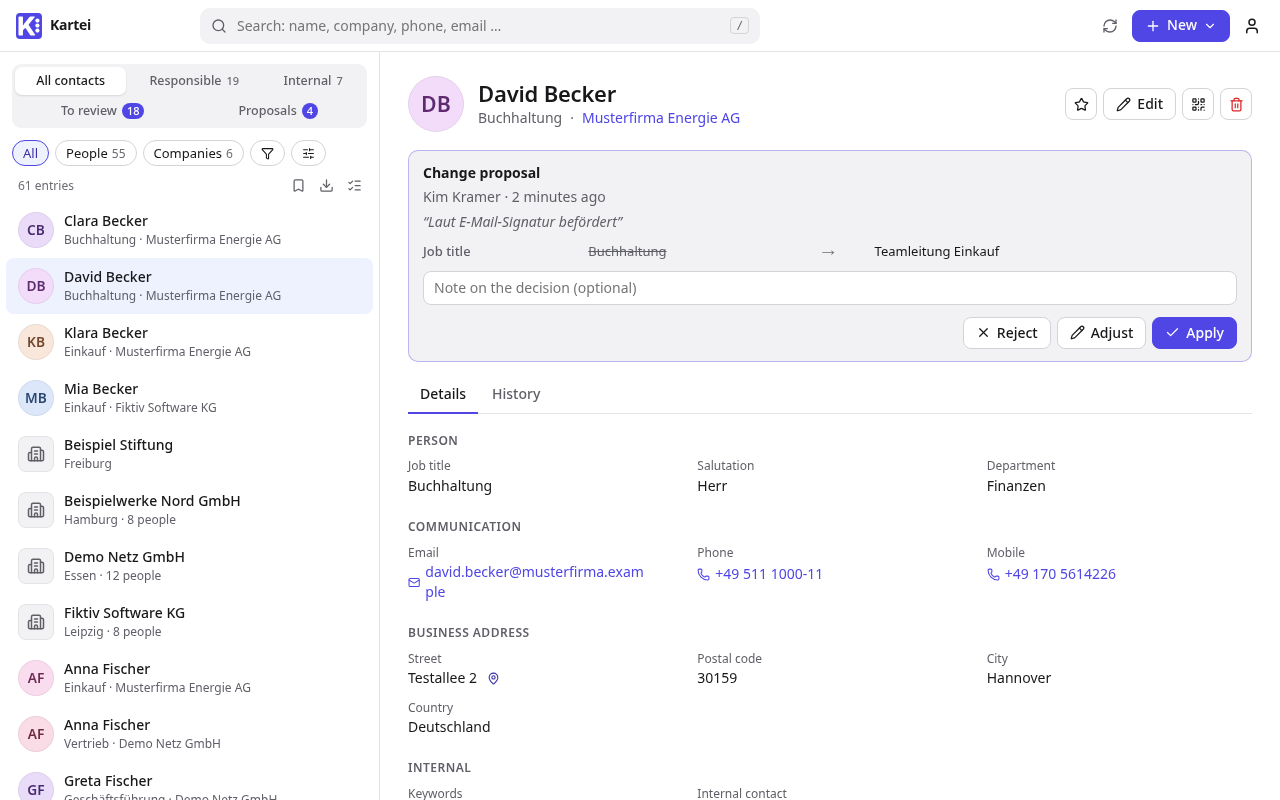
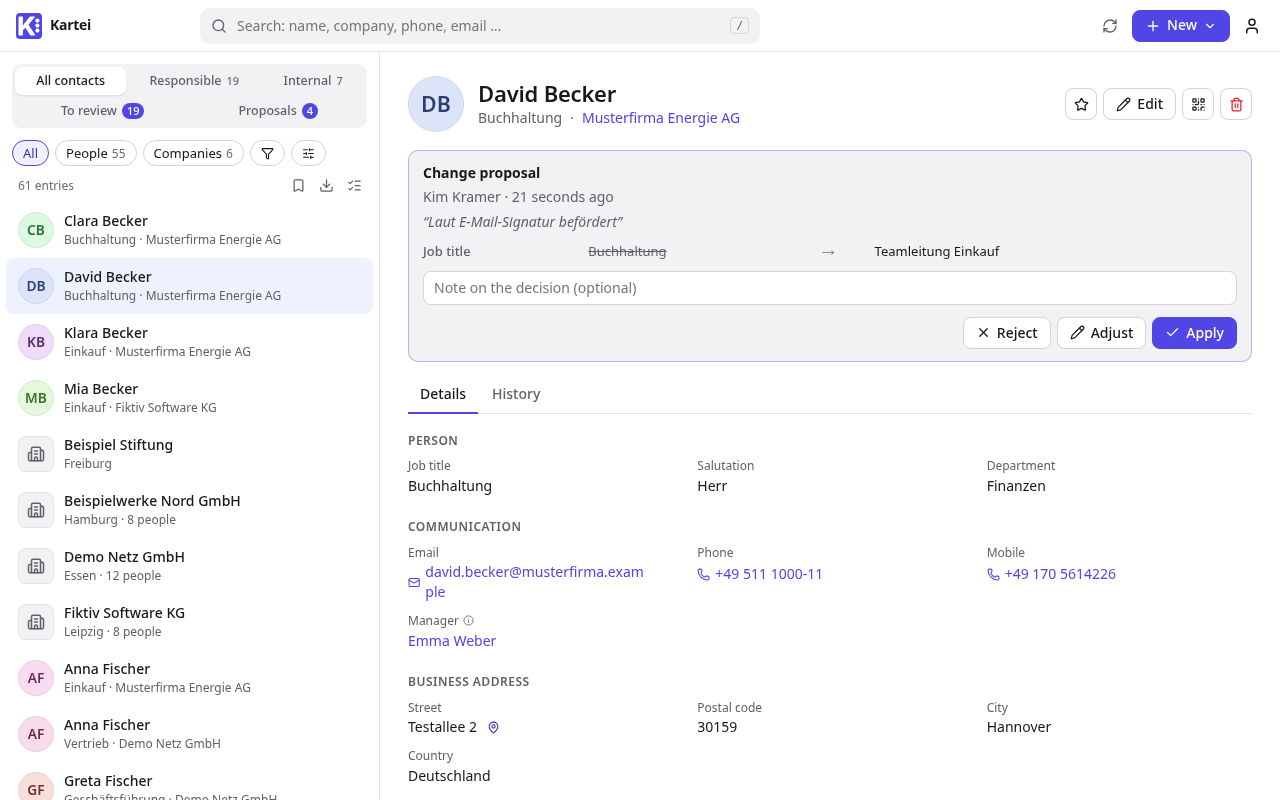
Org chart and "linked from" (#52)
* Org chart and "linked from"

- A Contact field with the vCard target related_manager means "reports to": companies get an Org chart
  tab, a tree of their people along it (src/lib/orgchart.ts: cycles, people reporting outside the
  company and a depth limit handled; nested lists with CSS connector lines).
- A person lists who points at them through Contact fields: direct reports, or the company where they
  are managing director (store.refs).
- Example field set: Manager becomes a Contact field (free text still allowed); seed_demo fills it with
  two to three levels per company.

* e2e: closing lines of the org chart test lost in the merge

---------

diff --git a/frontend/src/components/RecordView.svelte b/frontend/src/components/RecordView.svelte
@@ -7,12 +7,14 @@
   import Avatar from './Avatar.svelte'
   import History from './History.svelte'
   import RecordForm from './RecordForm.svelte'
+  import OrgChart from './OrgChart.svelte'
   import { ApiError, del, post } from '../lib/api'
   import { go } from '../lib/router.svelte'
   import { store } from '../lib/store.svelte'
   import { fmt, isEmpty, isMulti, relTime, dateTime } from '../lib/format'
   import { L, t, terr } from '../lib/i18n.svelte'
   import { groupFields } from '../lib/sections'
+  import { hasOrg, managerField } from '../lib/orgchart'
   import { copyText, toast } from '../lib/toast.svelte'
   import { hasEditDraft } from '../lib/drafts'
   import { confirmDialog } from '../lib/confirm.svelte'
@@ -34,7 +36,7 @@
     const address = [part('street'), [part('zip'), part('city')].filter(Boolean).join(' '), part('country')].filter(Boolean).join(', ')
     return store.mapUrl.replaceAll('{address}', encodeURIComponent(address))
   }
-  let tab = $state<'details' | 'persons' | 'history'>('details')
+  let tab = $state<'details' | 'persons' | 'org' | 'history'>('details')
   // edit form that proposes (new or own pending proposal) or adjusts a proposal before applying it
   let proposing = $state<{ mode: 'propose' | 'adjust'; proposal: Proposal | null } | null>(null)
   let deleting = $state(false) // delete-proposal composer
@@ -87,6 +89,18 @@
 
   const company = $derived(rec.company ? store.byUid.get(rec.company) : undefined)
   const persons = $derived(rec.kind === 'company' ? store.persons.get(rec.uid) ?? [] : [])
+  const manager = $derived(managerField(store.fields))
+  const showOrg = $derived(!!manager && rec.kind === 'company' && hasOrg(persons, manager.key))
+  /** who points at this person through a contact field, grouped by field: "Direct reports", "As Managing director of" */
+  const linked = $derived.by(() => {
+    const groups = new Map<string, { field: Field; recs: Rec[] }>()
+    for (const { rec: r, field } of store.refs.get(rec.uid) ?? []) {
+      const g = groups.get(field.key) ?? { field, recs: [] }
+      g.recs.push(r)
+      groups.set(field.key, g)
+    }
+    return [...groups.values()]
+  })
   /** filled-in fields by section, in section order */
   const sections = $derived(
     groupFields(store.fieldsFor(rec.kind).filter((f) => !isEmpty(rec.data[f.key])), store.sections).map((g) => ({
@@ -201,6 +215,7 @@
       <button class:on={tab === 'details'} onclick={() => (tab = 'details')}>{t('view.details')}</button>
       {#if rec.kind === 'company'}
         <button class:on={tab === 'persons'} onclick={() => (tab = 'persons')}>{t('view.persons')} <span class="count">{persons.length}</span></button>
+        {#if showOrg}<button class:on={tab === 'org'} onclick={() => (tab = 'org')}>{t('view.org')}</button>{/if}
       {/if}
       <button class:on={tab === 'history'} onclick={() => (tab = 'history')}>{t('view.history')}</button>
     </nav>
@@ -250,6 +265,21 @@
           </dl>
         </section>
       {/each}
+      {#if linked.length}
+        <section>
+          <h3>{t('view.linked')}</h3>
+          <dl>
+            {#each linked as g (g.field.key)}
+              <div class="row wide">
+                <dt>{g.field.vcard === 'related_manager' ? t('view.direct_reports') : t('view.linked_as', { field: L(g.field.label) })}</dt>
+                <dd>
+                  {#each g.recs as r, i (r.uid)}<a href="/{r.kind}/{r.uid}">{store.name(r)}</a>{#if i < g.recs.length - 1}<span>, </span>{/if}{/each}
+                </dd>
+              </div>
+            {/each}
+          </dl>
+        </section>
+      {/if}
       <footer class="meta">
         {#if rec.legacy_id}<span>{t('view.legacy_id', { id: rec.legacy_id })}</span>{/if}
         <span title={dateTime(rec.updated_at)}>{rec.updated_by ? t('view.updated', { when: relTime(rec.updated_at), user: store.userName(rec.updated_by) })
@@ -268,6 +298,8 @@
           <li class="muted">{t('view.no_persons')}</li>
         {/each}
       </ul>
+    {:else if tab === 'org' && manager}
+      <OrgChart staff={persons} field={manager.key} />
     {:else}
       <History uid={rec.uid} />
     {/if}

diff --git a/frontend/src/components/OrgChart.svelte b/frontend/src/components/OrgChart.svelte
@@ -1,0 +1,44 @@
+<script lang="ts">
+  import Avatar from './Avatar.svelte'
+  import { store } from '../lib/store.svelte'
+  import { orgTree, type OrgNode } from '../lib/orgchart'
+  import type { Rec } from '../lib/types'
+
+  /** the company's persons as a tree along the "reports to" field; a nested list, so keyboard and screen readers just work */
+  let { staff, field }: { staff: Rec[]; field: string } = $props()
+  const roots = $derived(orgTree(staff, field, (r) => store.name(r)))
+  const titleKey = $derived(store.fields.find((f) => f.vcard === 'title' && !f.archived)?.key)
+  const job = (r: Rec) => (titleKey ? r.data[titleKey] : '') ?? ''
+</script>
+
+{#snippet tree(nodes: OrgNode[])}
+  <ul>
+    {#each nodes as n (n.rec.uid)}
+      <li>
+        <a class="person" href="/person/{n.rec.uid}">
+          <Avatar rec={n.rec} size={28} />
+          <span><strong>{store.name(n.rec)}</strong>{#if job(n.rec)}<small>{job(n.rec)}</small>{/if}</span>
+        </a>
+        {#if n.children.length}{@render tree(n.children)}{/if}
+      </li>
+    {/each}
+  </ul>
+{/snippet}
+
+<div class="org">{@render tree(roots)}</div>
+
+<style>
+  /* connector lines: each nested item hangs off a vertical line with a short horizontal tick */
+  .org :global(ul) { list-style: none; margin: 0; padding-left: 0; }
+  .org :global(ul ul) { margin-left: 13px; padding-left: 20px; }
+  .org :global(ul ul > li) { position: relative; }
+  .org :global(ul ul > li::before) { content: ''; position: absolute; left: -20px; top: 20px; width: 16px; border-top: 1px solid var(--border-strong); }
+  .org :global(ul ul > li::after) { content: ''; position: absolute; left: -20px; top: 0; bottom: 0; border-left: 1px solid var(--border-strong); }
+  .org :global(ul ul > li:last-child::after) { bottom: auto; height: 20px; }  /* the line stops at the last tick */
+  .org :global(li) { padding: 3px 0; }
+  .person { display: inline-flex; align-items: center; gap: 10px; padding: 4px 10px 4px 4px; border-radius: 8px; color: var(--text); }
+  .person:hover { background: var(--panel-2); text-decoration: none; }
+  .person span { display: flex; flex-direction: column; line-height: 1.25; }
+  strong { font-weight: 500; }
+  small { color: var(--muted); font-size: 12.5px; }
+</style>

diff --git a/frontend/src/lib/orgchart.ts b/frontend/src/lib/orgchart.ts
@@ -1,0 +1,33 @@
+// Org chart of a company from a "reports to" field (a contact field with the vCard target related_manager).
+import type { Field, Rec } from './types'
+
+export interface OrgNode { rec: Rec; children: OrgNode[] }
+
+/** the field that says who someone reports to; none = no org chart */
+export const managerField = (fields: Field[]) =>
+  fields.find((f) => f.type === 'contact' && f.vcard === 'related_manager' && !f.archived && f.applies_to !== 'company')
+
+/** Trees of the company's persons. Roots: no manager, or one outside the company. A cycle (A → B → A) can't hang
+ *  from anywhere: its first member becomes a root, so everybody appears exactly once. */
+export function orgTree(staff: Rec[], key: string, name: (r: Rec) => string, maxDepth = 20): OrgNode[] {
+  const byUid = new Map(staff.map((r) => [r.uid, r]))
+  const boss = (r: Rec) => { const m = r.data[key]; return typeof m === 'string' && m !== r.uid && byUid.has(m) ? m : null }
+  const under = new Map<string, Rec[]>()
+  for (const r of staff) { const m = boss(r); if (m) under.set(m, [...(under.get(m) ?? []), r]) }
+  const sort = (rs: Rec[]) => [...rs].sort((a, b) => name(a).localeCompare(name(b)))
+  const seen = new Set<string>()
+  const node = (r: Rec, depth: number): OrgNode => {
+    seen.add(r.uid)
+    const kids = depth < maxDepth ? sort(under.get(r.uid) ?? []).filter((c) => !seen.has(c.uid)) : []
+    return { rec: r, children: kids.map((c) => node(c, depth + 1)) }
+  }
+  const roots = sort(staff.filter((r) => !boss(r))).map((r) => node(r, 0))
+  for (const r of sort(staff)) if (!seen.has(r.uid)) roots.push(node(r, 0))  // left over: cycles, or too deep
+  return roots
+}
+
+/** is there anything worth drawing: at least one person reports to someone in the same company */
+export const hasOrg = (staff: Rec[], key: string) => {
+  const ids = new Set(staff.map((r) => r.uid))
+  return staff.some((r) => r.data[key] !== r.uid && ids.has(r.data[key]))
+}

diff --git a/frontend/tests/orgchart.test.ts b/frontend/tests/orgchart.test.ts
@@ -1,0 +1,34 @@
+import { test } from 'node:test'
+import assert from 'node:assert/strict'
+import { hasOrg, managerField, orgTree, type OrgNode } from '../src/lib/orgchart.ts'
+import type { Field, Rec } from '../src/lib/types.ts'
+
+const p = (uid: string, manager?: string) => ({ uid, kind: 'person', last_name: uid, data: manager ? { manager } : {} }) as unknown as Rec
+const name = (r: Rec) => r.last_name
+const shape = (ns: OrgNode[]): any => ns.map((n) => n.children.length ? { [n.rec.uid]: shape(n.children) } : n.rec.uid)
+
+test('tree: boss at the top, sorted, a manager outside the company makes a root', () => {
+  const staff = [p('d', 'b'), p('b', 'a'), p('a'), p('c', 'a'), p('x', 'other-company')]
+  assert.deepEqual(shape(orgTree(staff, 'manager', name)), [{ a: [{ b: ['d'] }, 'c'] }, 'x'])
+  assert.equal(hasOrg(staff, 'manager'), true)
+  assert.equal(hasOrg([p('a'), p('x', 'elsewhere')], 'manager'), false)
+})
+
+test('cycles and self-references: everyone appears exactly once', () => {
+  const staff = [p('a', 'b'), p('b', 'a'), p('c', 'c'), p('d', 'a')]
+  const all: string[] = []
+  const walk = (ns: OrgNode[]) => ns.forEach((n) => { all.push(n.rec.uid); walk(n.children) })
+  walk(orgTree(staff, 'manager', name))
+  assert.deepEqual(all.sort(), ['a', 'b', 'c', 'd'])
+})
+
+test('depth limit: deeper people start their own branch', () => {
+  const staff = [p('a'), p('b', 'a'), p('c', 'b')]
+  assert.deepEqual(shape(orgTree(staff, 'manager', name, 1)), [{ a: ['b'] }, 'c'])
+})
+
+test('the manager field is the contact field with the related_manager target', () => {
+  const f = (key: string, type: string, vcard: string) => ({ key, type, vcard, archived: false, applies_to: 'person' }) as Field
+  assert.equal(managerField([f('ceo', 'contact', 'related_custom'), f('manager', 'contact', 'related_manager')])?.key, 'manager')
+  assert.equal(managerField([f('manager', 'text', 'related_manager')]), undefined)
+})

diff --git a/frontend/src/lib/store.svelte.ts b/frontend/src/lib/store.svelte.ts
@@ -61,6 +61,19 @@ class Store {
   rank = $derived(this.user ? RANK[this.user.role] : -1)
   canEdit = $derived(this.rank >= 1)
   isAdmin = $derived(this.rank >= 2)
+  /** who points at a person through a contact field (e.g. "reports to"): person uid → [{record, field}] */
+  refs = $derived.by(() => {
+    const keys = this.fields.filter((f) => f.type === 'contact' && !f.archived)
+    const m = new Map<string, { rec: Rec; field: Field }[]>()
+    if (!keys.length) return m
+    for (const { rec } of this.index) {
+      for (const f of keys) {
+        const v = rec.data[f.key]
+        if (typeof v === 'string' && v !== rec.uid && this.byUid.has(v)) m.set(v, [...(m.get(v) ?? []), { rec, field: f }])
+      }
+    }
+    return m
+  })
   /** persons per company uid */
   persons = $derived.by(() => {
     const m = new Map<string, Rec[]>()

diff --git a/frontend/src/i18n/de.ts b/frontend/src/i18n/de.ts
@@ -127,6 +127,10 @@ export default {
 
   'view.details': 'Details',
   'view.persons': 'Personen',
+  'view.org': 'Organigramm',
+  'view.linked': 'Verknüpft mit',
+  'view.direct_reports': 'Direkte Mitarbeitende',
+  'view.linked_as': 'Als {field} bei',
   'view.history': 'Verlauf',
   'view.vcard': 'vCard herunterladen',
   'view.copy': 'Kopieren',

diff --git a/frontend/src/i18n/en.ts b/frontend/src/i18n/en.ts
@@ -127,6 +127,10 @@ export default {
 
   'view.details': 'Details',
   'view.persons': 'People',
+  'view.org': 'Org chart',
+  'view.linked': 'Linked from',
+  'view.direct_reports': 'Direct reports',
+  'view.linked_as': 'As {field} of',
   'view.history': 'History',
   'view.vcard': 'Download vCard',
   'view.copy': 'Copy',

diff --git a/backend/kartei/management/commands/seed_demo.py b/backend/kartei/management/commands/seed_demo.py
@@ -97,6 +97,14 @@ class Command(BaseCommand):
             if ceo and "ceo" in known:
                 c.data["ceo"] = str(ceo.uid)
                 c.save(update_fields=["data"])
+            # org chart: the managing director at the top, the first person of each department its head
+            staff = [p for p in persons if p.company_id == c.id]
+            top, heads = ceo or staff[0], {}
+            for p in staff:
+                if p is not top and "manager" in known:
+                    head = heads.setdefault(p.data.get("department", ""), p)
+                    p.data["manager"] = str((top if head is p else head).uid)
+                    p.save(update_fields=["data"])
         # data quality cases: a duplicate pair, a person without company, an invalid email
         twin = persons[3]
         persons.append(Record.objects.create(kind="person", first_name=twin.first_name, last_name=twin.last_name,

diff --git a/CHANGELOG.md b/CHANGELOG.md
@@ -6,6 +6,8 @@ All notable changes to Kartei are listed here. The format follows [Keep a Change
 
 ### Added
 
+- **Org chart:** a *Contact* field with the vCard assignment *Relation: manager* (`related_manager`) means "reports to". Companies then get an **Org chart** tab: a tree of their people along that field (cycles and people reporting outside the company handled). In the example field set, *Manager* (`manager`) becomes such a *Contact* field (a typed name still works), and the demo data has two to three levels per company.
+- **Linked from:** a person lists who points at them through *Contact* fields, e.g. their direct reports or the company where they are managing director.
 - **New contact from an email signature:** *New → From an email signature …* reads a pasted signature (name, academic title, job title, company, address in German/Austrian/Swiss style, labelled phone numbers, email, website) and opens the usual filled-in form, with the company linked if Kartei knows it. Unrecognised lines are listed; greetings and legal footers are skipped. Everything happens in the browser.
 - **Share to Kartei (Android):** with Kartei installed as an app, it appears in the share menu of other apps; a shared vCard or text (e.g. a signature) opens as a new contact or proposal.
 

diff --git a/manuals/de/admin.md b/manuals/de/admin.md
@@ -555,7 +555,7 @@ Jede Änderung an Abschnitten steht im Protokoll.
 | *Datum*, *Ja/Nein* | Echte Datums- und Ja/Nein-Werte (auch in Excel richtig typisiert). |
 | *Benutzer* | Ein Kartei-Benutzer, z. B. der interne Zuständige. Das **erste** Feld vom Typ *Benutzer* bestimmt, wer den Kontakt prüft. Administratoren und inaktive Benutzer werden nicht angeboten; ein früher eingetragener Wert bleibt erhalten. |
 | *Mehrere Benutzer* | Mehrere Kartei-Benutzer, z. B. interne Kontakte. Auch hier werden Administratoren und inaktive Benutzer nicht angeboten. |
-| *Kontakt (Person der Firma)* | Verweist auf eine Person derselben Firma, z. B. den Geschäftsführer. |
+| *Kontakt (Person der Firma)* | Verweist auf eine Person derselben Firma, z. B. den Geschäftsführer. Die verknüpfte Person zeigt den Kontakt unter *Verknüpft mit*. Mit der vCard-Zuordnung *Beziehung: Vorgesetzte(r)* (`related_manager`) bedeutet das Feld „berichtet an“: Firmen bekommen dann den Reiter **Organigramm**, der daraus entsteht (der Beispiel-Feldbestand hat es als *Vorgesetzter*). |
 
 Exporte, vCards und der AD-Sync zeigen die Namen der Benutzer und verknüpften Personen, nicht ihre IDs.
 

diff --git a/manuals/en/admin.md b/manuals/en/admin.md
@@ -555,7 +555,7 @@ Every change to a section is recorded in the audit log.
 | *Date*, *Yes/No* | Real date and checkbox values (also typed correctly in Excel). |
 | *User* | One Kartei user, e.g. the internal person responsible. The **first** *User* field of a contact determines who reviews it. Administrators and inactive users are not offered; a value set earlier stays. |
 | *Multiple users* | Several Kartei users, e.g. internal contacts. Here too, administrators and inactive users are not offered. |
-| *Contact (person of the company)* | Links a person of the same company, e.g. the managing director. |
+| *Contact (person of the company)* | Links a person of the same company, e.g. the managing director. The linked person lists the contact under *Linked from*. With the vCard assignment *Relation: manager* (`related_manager`) the field means "reports to": companies then get an **Org chart** tab built from it (the example field set has it as *Manager*). |
 
 Exports, vCards and the AD sync show the names of users and linked persons, not their IDs.
 

diff --git a/manuals/de/user.md b/manuals/de/user.md
@@ -247,6 +247,12 @@ Firmen haben zusätzlich den Reiter **Personen** mit allen, die dort arbeiten. A
 
 ![Reiter Personen einer Firma](../img/de/company-persons.png)
 
+**Organigramm.** Hat deine Kartei ein Feld *Vorgesetzter* und ist es bei den Personen der Firma gepflegt, gibt es zusätzlich den Reiter **Organigramm**: oben die Geschäftsführung (oder wer dort an niemanden berichtet), darunter alle anderen bei der Person, an die sie berichten. Ein Klick auf einen Namen öffnet die Person.
+
+![Das Organigramm einer Firma](../img/de/org-chart.png)
+
+**Verknüpft mit.** Eine Person zeigt unter *Verknüpft mit*, wer auf sie verweist, z. B. ihre **Direkten Mitarbeitenden** oder die Firma, bei der sie Geschäftsführer ist.
+
 ### Verlauf
 
 Der Reiter **Verlauf** zeigt jede Änderung am Kontakt: wer wann was geändert hat, mit altem und neuem Wert. Auch Vorschläge, Prüfungen, Entscheidungen und Löschungen stehen dort.
